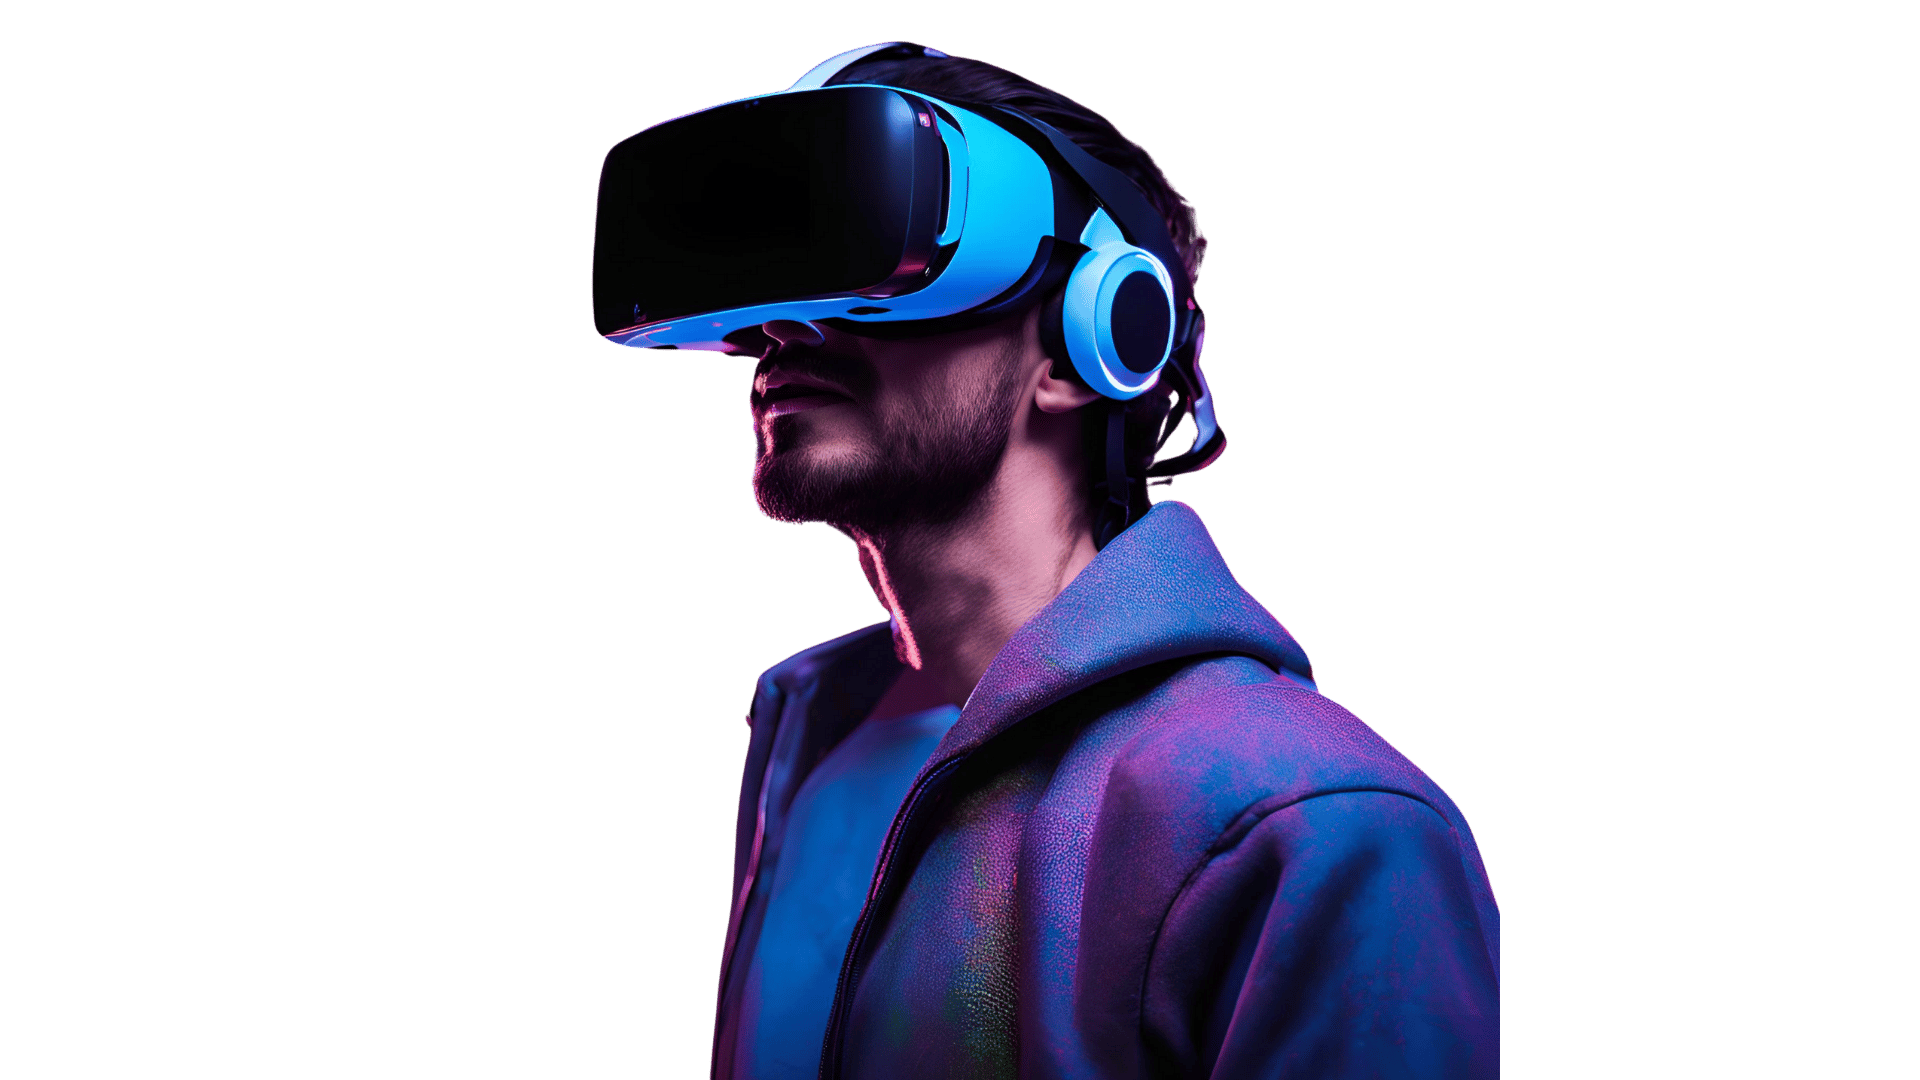
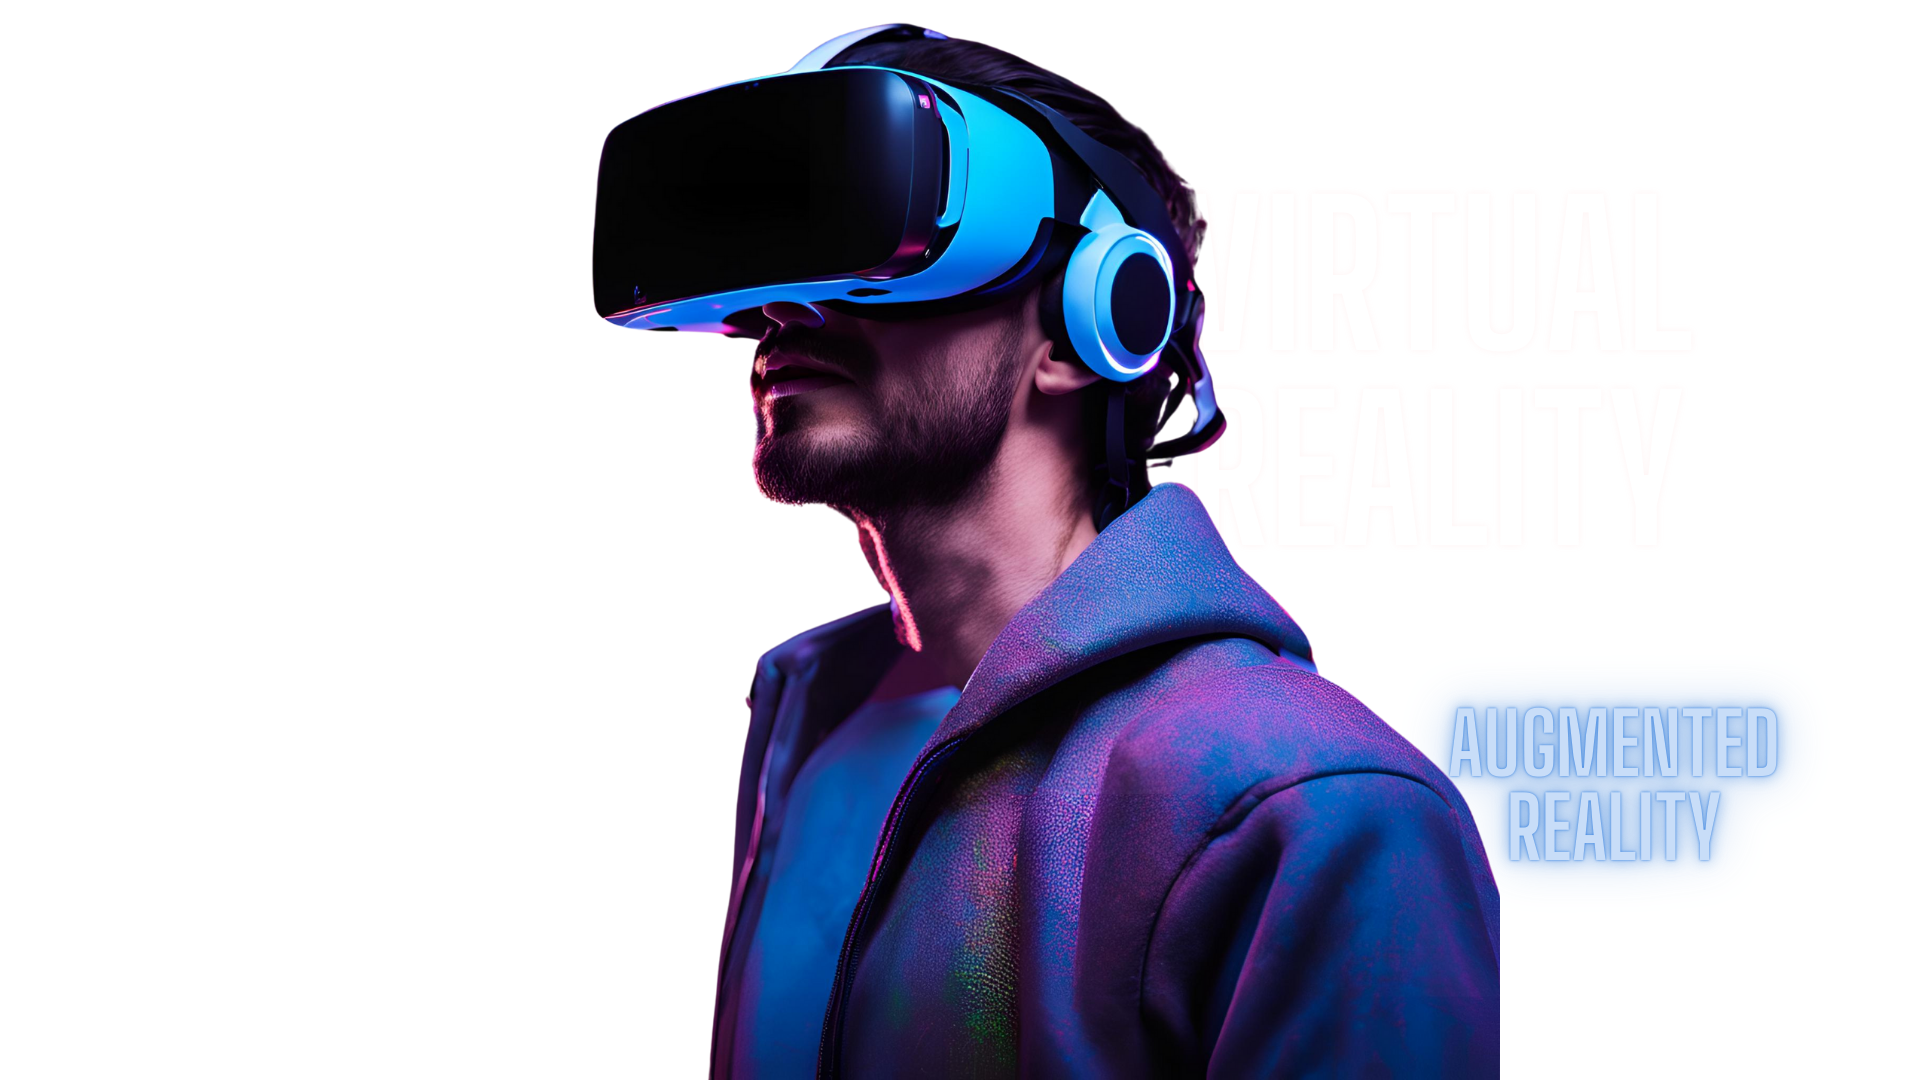
edit homepage

Changed region(s): [[0.3125, 0.0, 0.9375, 1.0], [0.3438, 0.9472, 0.375, 1.0]]

diff --git a/index.html b/index.html
@@ -54,10 +54,8 @@
 
     <section class="hero-section" id="home" style="background-image: url('');" data-aos="fade-up" data-aos-duration="1500">
         <div class="hero-content container">
-            <div class="col-6">
-                <h1 class="hero-title" data-aos="fade-right" data-aos-duration="2000">Vortigate</h1>
-                <p>Innovating the Future with Virtual Reality</p>
-            </div>
+                <h1 class="hero-title" data-aos="fade-right" data-aos-duration="2000">VORTIGATE</h1>
+                <p>Innovating the Future with Virtual Reality</p>           
         </div>
         <div class="hero-image">
             <img src="assets/img/vr-man.png" alt="Hero Image" class="background-image">

diff --git a/assets/css/styles.css b/assets/css/styles.css
@@ -96,9 +96,22 @@ section {
 }
 
 .hero-title {
-    font-size: 3rem;
+    font-size: 6rem;
     font-weight: bold;
     color: var(--primary-color);
+    
+}
+.hero-content p { 
+
+    font-size: 2rem;
+}
+
+.sent-01 {
+    position: absolute;
+    top: 200px;
+    right: 200px;
+    font-size: 6rem;
+    color: #10F4AF;
 }
 
 #about  {
